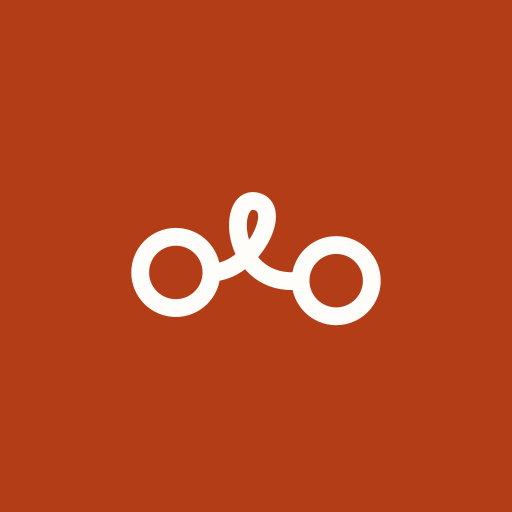
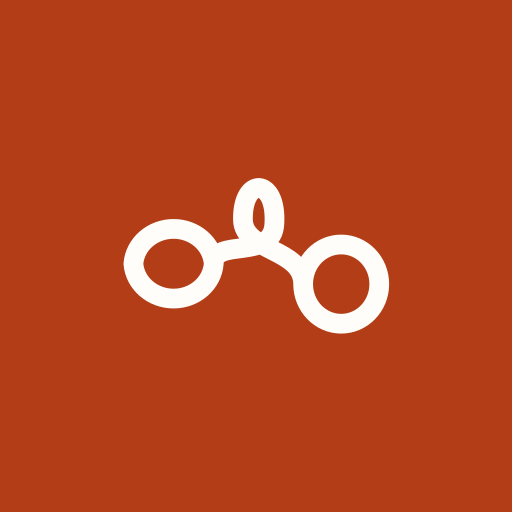
feat(brand): 첫 장면 로고를 고운바탕 글꼴로, 두 ㅇ과 리본 고리를 한 줄로 그리기
- 성효님이 글꼴 시안 중 고운바탕을 고름. 글꼴 윤곽(logo-data.ts)에서 우·연의 ㅇ만 지우고 리본 선 하나로 다시 그린다.
- 원과 리본 고리를 같은 방향(시계 반대)으로, ㅇ은 한 바퀴씩만 — 방향이 반대거나 같은 곳을 다시 지나면 선이 멈춘 듯 어색했음.
- 첫 ㅇ은 천천히, 고리에서 빠르게, 둘째 ㅇ에서 감속 후 한 번 튕김(약 2.6초, 누르면 닫힘). 아이콘도 같은 리본으로 다시 생성.

Claude-Session: https://claude.ai/code/session_0167Tg9DgNhsN7PbABVZ7vUc

Changed region(s): [[0.2188, 0.3438, 0.7812, 0.6562]]

diff --git a/src/components/logo-data.ts b/src/components/logo-data.ts
@@ -1,0 +1,8 @@
+// 폰트 윤곽에서 뽑은 로고 모양 (IBM Plex Sans KR 700, 고운바탕 700 — 둘 다 SIL OFL). 손으로 고치지 않는다.
+// 우·연의 ㅇ은 지우고 리본 선 하나(ribbon)로 다시 그린다. 원과 리본 고리는 모두 시계 반대 방향, 같은 곳을 두 번 지나지 않는다:
+// 왼쪽 ㅇ 오른쪽 끝에서 위로 한 바퀴 → 그대로 리본 고리 → 오른쪽 ㅇ 왼쪽 끝으로 들어가 한 바퀴.
+export const LOGOS = {
+  plex: {"label":"IBM Plex Sans KR","vb":"-4.7 -25.8 448 149.4","sw":14.5,"wy":"M85.9 72.8L85.9 84.1L51.3 84.1L51.3 114.2L37.9 114.2L37.9 84.1L3.3 84.1L3.3 72.8L85.9 72.8M118 74.3L118 74.3Q110.9 74.3 105.4 71.5Q99.9 68.6 96.9 63.2Q93.8 57.8 93.8 50.4L93.8 50.4Q93.8 43 96.9 37.7Q99.9 32.3 105.4 29.5Q110.9 26.6 118 26.6L118 26.6Q124.3 26.6 129.4 28.9Q134.4 31.2 137.6 35.5L137.6 35.5L156 35.5L156 22.1L169.4 22.1L169.4 88.5L156 88.5L156 65.8L137.3 65.8Q134.1 69.9 129.1 72.1Q124.1 74.3 118 74.3M118 63.5L118 63.5Q122.6 63.5 125.4 60.9Q128.1 58.2 128.1 53.3L128.1 53.3L128.1 47.6Q128.1 42.7 125.4 40.1Q122.6 37.4 118 37.4L118 37.4Q113.3 37.4 110.6 40.1Q107.8 42.7 107.8 47.6L107.8 47.6L107.8 53.3Q107.8 58.2 110.6 60.9Q113.3 63.5 118 63.5M156 46.3L141.8 46.3Q142.1 48.2 142.1 50.4L142.1 50.4Q142.1 52.7 141.8 55L141.8 55L156 55L156 46.3M124.5 101.7L171.1 101.7L171.1 112.7L119.5 112.7Q111 112.7 111 104.2L111 104.2L111 81.3L124.5 81.3L124.5 101.7","han":"M227 69.2L235.2 69.2L235.2 76.1L227 76.1L227 94.1L218.7 94.1L218.7 51.7L227 51.7L227 69.2M207.3 53.1L207.3 60L190.7 60L190.7 53.1L207.3 53.1M198.7 88.5Q194.5 88.5 191.5 87.1Q188.4 85.7 186.8 83.4Q185.2 81.2 185.2 78.5Q185.2 73.2 189.9 71L189.9 70.5L182.1 70.5L182.1 63.7L215.3 63.7L215.3 70.5L207.5 70.5L207.5 71Q212.2 73.2 212.2 78.5Q212.2 81.2 210.6 83.4Q209 85.7 205.9 87.1Q202.8 88.5 198.7 88.5M198.3 81.5L199.1 81.5Q201.5 81.5 203 80.1Q204.5 78.7 204.5 76.5Q204.5 74.3 203 72.9Q201.5 71.5 199.1 71.5L198.3 71.5Q195.9 71.5 194.4 72.8Q192.9 74.2 192.9 76.5Q192.9 78.8 194.4 80.2Q195.9 81.5 198.3 81.5M199.8 92.1L199.8 101.7L228.3 101.7L228.3 108.5L196.7 108.5Q191.4 108.5 191.4 103.2L191.4 92.1","sik":"M324.4 22.1L337.9 22.1L337.9 75.2L324.4 75.2L324.4 22.1M270.3 75.3L260.3 66.6Q271.4 57.6 276.3 49.8Q281.1 42.1 281.1 33L281.1 26.4L294.6 26.4L294.6 33.8Q294.6 43.8 290.6 51.9L291.1 52.2L294 49.8Q295.8 48.3 297.5 48.3Q299.2 48.3 300.7 49.8L316.1 64.3L306.4 73.7L290.1 57.1Q289.5 56.5 288.7 56.5Q288.1 56.5 287.5 57.1Q282.1 65.2 270.3 75.3M278.3 90.9L278.3 79.6L337.9 79.6L337.9 115.6L324.7 115.6L324.7 90.9M435.3 43.5L435.3 54.7L422.1 54.7L422.1 77.2L408.7 77.2L408.7 22.1L422.1 22.1L422.1 43.5L435.3 43.5M400.1 62L401.7 72.5Q393.3 74 384.3 74.8Q375.2 75.5 361.6 75.5L352.3 75.5L352.3 27.1L394.8 27.1L394.8 37.9L365.4 37.9L365.4 45.5L393.6 45.5L393.6 56.2L365.4 56.2L365.4 64.8Q376.2 64.7 384.2 64Q392.2 63.3 400.1 62M363.5 92.8L363.5 81.6L422.1 81.6L422.1 115.6L408.9 115.6L408.9 92.8","ribbon":"M67.6 44.7 A22.9 17.4 0 0 0 21.7 44.7 A22.9 17.4 0 0 0 67.6 44.7 C67.6 32.5 87.7 41.8 87.8 25.4 C88.1 5.2 73 5.3 74 24.3 C74.8 38.2 101.5 33.1 101.5 50.5 A16.4 19.3 0 0 0 134.4 50.5 A16.4 19.3 0 0 0 101.5 50.5"},
+  batang: {"label":"고운바탕","vb":"-5 -35.3 455.7 152.4","sw":10.5,"wy":"M47.7 104L47.7 104Q45.7 104 45.2 101.6L45.2 101.6Q44.7 99 44.6 96Q44.5 92.9 44.5 91.1L44.5 91.1L44.5 68.6Q40.2 68.7 36 69Q31.8 69.2 27.7 69.4L27.7 69.4Q23.4 69.6 19.8 70.1Q16.2 70.5 13.1 71.1L13.1 71.1Q10.9 71.6 10 71.4Q9 71.2 7.9 70.4L7.9 70.4Q7.3 69.9 6.2 68.9Q5.1 67.9 4.2 66.9Q3.2 65.8 3 65.3L3 65.3Q2.8 64.5 3.9 63Q5 61.5 6.2 61.6L6.2 61.6Q9.4 62.3 13.9 62.7Q18.3 63 23.3 63.1L23.3 63.1Q28.1 63.1 33.9 63.1Q39.7 63 45.7 62.8Q51.6 62.6 57 62.4Q62.3 62.2 66.1 62L66.1 62Q72.3 61.6 77.4 61Q82.4 60.4 85.5 59.6L85.5 59.6Q87.5 59.1 88.3 59.3Q89 59.4 89.7 60.5L89.7 60.5Q90.4 61.5 91.2 63.3Q92 65 92 65.7L92 65.7Q91.9 66.8 90.6 67.9Q89.2 68.9 88.6 68.9L88.6 68.9Q85.8 68.6 83.2 68.5Q80.5 68.3 77 68.2Q73.4 68.1 67.8 68.1L67.8 68.1Q64.5 68.1 61.1 68.2Q57.6 68.2 54 68.3L54 68.3L54 90.6Q54 93.1 53.5 96.3Q53 99.4 51.7 101.7Q50.3 104 47.7 104M165.9 82.5L165.9 82.5Q164.1 82.5 163.6 80.5L163.6 80.5Q163.1 78.2 163 75.2Q162.9 72.2 162.9 70.2L162.9 70.2Q162.9 69.7 162.9 69.5L162.9 69.5L162.9 57.4Q159.5 57.6 156.1 58.1Q152.6 58.6 150.6 59.1L150.6 59.1Q149.3 59.4 148.6 59.5Q147.8 59.5 146.9 59.2L146.9 59.2Q146.1 58.8 144.4 57.8Q142.7 56.7 141.9 55.9L141.9 55.9Q138.8 59.6 134.1 61.7Q129.4 63.7 124 63.9L124 63.9Q117.8 64.1 112.7 61.7Q107.6 59.3 104.6 54.9Q101.5 50.4 101.5 44.6L101.5 44.6Q101.5 38.8 104.5 34.3Q107.5 29.7 112.6 27Q117.7 24.2 123.9 24L123.9 24Q129.8 23.8 134.8 25.8Q139.8 27.9 142.9 32L142.9 32Q143.8 30.1 145.2 30.1L145.2 30.1Q149 30.8 154.2 30.6L154.2 30.6Q155.5 30.6 157.9 30.5Q160.3 30.3 162.9 30.2L162.9 30.2L162.9 27.5Q162.9 24.7 162.7 23.3Q162.4 21.9 161.5 20.9Q160.6 20 158.7 18.8L158.7 18.8Q157.7 18.2 157.3 17.3Q156.8 16.5 157.3 15.5L157.3 15.5Q158.1 13.8 159.4 13.3Q160.7 12.8 162.3 13.1L162.3 13.1Q164.6 13.5 167.1 14.6Q169.6 15.8 171.2 16.9L171.2 16.9Q173 18.2 173 19.4L173 19.4Q172.8 20.7 172.5 23Q172.2 25.3 172.2 27.6L172.2 27.6L172.2 69Q172.2 71.5 171.7 74.6Q171.1 77.7 169.7 80.1Q168.3 82.4 165.9 82.5M132.4 106L132.4 106Q130.9 105.9 129.1 105.1Q127.2 104.3 125.9 102.4Q124.6 100.4 124.6 97L124.6 97L124.6 89.7Q124.6 86.7 124.5 85.3Q124.3 83.8 123.6 82.9Q122.9 82 121.2 80.9L121.2 80.9Q120.3 80.3 120.1 79.6Q119.8 78.9 120.3 77.8L120.3 77.8Q121.1 76.1 122.5 75.7Q123.8 75.3 125.2 75.5L125.2 75.5Q126.9 75.8 129 76.6Q131 77.3 132.5 78.2L132.5 78.2Q133.6 78.9 134.4 79.6Q135.1 80.2 135.1 81L135.1 81Q134.7 82.7 134.5 85Q134.3 87.3 134.3 89.2L134.3 89.2L134.3 95.8Q134.3 98.3 135 98.9Q135.7 99.4 137.2 99.5L137.2 99.5Q141 99.6 145.3 99.6Q149.5 99.6 155.3 99.3L155.3 99.3Q161.8 99 166.5 98Q171.2 97 172.7 96.6L172.7 96.6Q173.8 96.2 174.5 96.5Q175.2 96.8 175.6 97.4L175.6 97.4Q176.4 98.4 177.2 100.1Q178 101.8 178 102.4L178 102.4Q178 103.2 176.9 104.4Q175.7 105.6 175 105.6L175 105.6Q173.7 105.5 170.9 105.5Q168.1 105.4 164.5 105.4Q160.9 105.4 157.1 105.5L157.1 105.5Q156.1 105.5 154.7 105.6Q153.2 105.6 151.4 105.7L151.4 105.7Q148.3 105.8 144.7 105.9Q141 106 137.7 106.1Q134.4 106.1 132.4 106M123.9 57.4L123.9 57.4Q129.5 57.2 133.2 53.5Q136.9 49.8 136.9 43.5L136.9 43.5Q136.9 36.7 133.2 33.5Q129.5 30.2 124 30.5L124 30.5Q118.3 30.8 114.6 34.5Q110.9 38.2 110.9 44.2L110.9 44.2Q110.9 50.7 114.7 54.1Q118.4 57.5 123.9 57.4M153.2 52.4L153.2 52.4Q154.6 52.4 157.4 52.3Q160.1 52.1 162.9 51.9L162.9 51.9L162.9 35.7Q159.2 35.9 156.5 36.3Q153.7 36.8 151.7 37.3L151.7 37.3Q150.4 37.7 149.7 37.7Q148.9 37.7 148 37.4L148 37.4Q147.6 37.2 146.8 36.8Q145.9 36.3 145.1 35.8L145.1 35.8Q146.5 39.2 146.5 43.2L146.5 43.2Q146.5 48 144.5 52L144.5 52Q146.2 52.2 148.5 52.4Q150.8 52.5 153.2 52.4","han":"M205.1 84.1Q201.1 84.2 198.3 82.8Q195.6 81.3 194.2 79.1Q192.8 76.8 192.8 74.6Q192.8 72.2 194 70Q195.2 67.7 197.8 66.1Q200.5 64.6 204.9 64.5Q207.8 64.5 210.6 65.4Q213.5 66.3 215.3 68.3Q217.2 70.4 217.2 74Q217.2 76.4 215.9 78.7Q214.6 81 211.9 82.5Q209.2 84 205.1 84.1M227.7 91Q226.6 91 226.3 89.8Q226 88.3 225.9 86.5Q225.9 84.6 225.9 83.4Q225.9 83.1 225.9 83L225.9 55Q225.9 53.3 225.7 52.4Q225.6 51.6 225.1 51Q224.6 50.4 223.4 49.7Q222.8 49.3 222.5 48.8Q222.2 48.2 222.5 47.6Q223 46.6 223.8 46.2Q224.6 45.9 225.6 46.1Q227 46.4 228.5 47.1Q230 47.8 231 48.5Q232.1 49.3 232.1 50Q232 50.8 231.8 52.3Q231.6 53.7 231.6 55.1L231.6 68.2Q234 67.9 236 67.4Q237.9 66.9 238.8 66.6Q239.4 66.4 239.9 66.6Q240.3 66.7 240.6 67.1Q241 67.7 241.5 68.8Q242 69.9 242 70.4Q242 71 241.3 71.6Q240.5 72.2 240.1 72.2Q238.1 71.9 235.9 71.8Q233.7 71.7 231.6 71.7L231.6 82.6Q231.6 84.2 231.3 86.1Q230.9 88 230.1 89.5Q229.2 90.9 227.7 91M206.9 103.7Q206 103.7 204.9 103.3Q203.7 103 202.9 101.9Q202.1 100.9 202.1 98.8L202.1 95.6Q202.1 93.9 202 93.1Q201.9 92.3 201.5 91.8Q201.1 91.3 200.1 90.8Q198.9 90.1 199.4 88.8Q199.9 87.8 200.7 87.5Q201.6 87.2 202.4 87.3Q203.5 87.5 204.8 87.9Q206.1 88.3 206.9 88.8Q207.6 89.3 208.1 89.6Q208.6 90 208.6 90.5Q208.4 91.6 208.3 93Q208.1 94.4 208.1 95.3L208.1 98Q208.1 99 208.4 99.3Q208.6 99.6 209.2 99.7Q211.6 99.8 214.6 99.8Q217.6 99.8 221.1 99.6Q225.2 99.3 228.1 98.7Q231 98.1 231.9 97.9Q232.6 97.6 233.1 97.8Q233.5 98 233.7 98.4Q234.2 99 234.7 100.1Q235.2 101.1 235.2 101.5Q235.2 102 234.5 102.7Q233.8 103.5 233.4 103.5Q232.6 103.4 230.8 103.4Q229.1 103.3 226.8 103.3Q224.6 103.3 222.3 103.4Q221.6 103.4 220.7 103.4Q219.8 103.5 218.7 103.5Q216.8 103.6 214.5 103.7Q212.3 103.7 210.2 103.8Q208.2 103.8 206.9 103.7M192.3 63Q191.1 63.3 190.6 63.2Q190.1 63.2 189.4 62.6Q189 62.2 188.2 61.4Q187.5 60.6 187.2 60.1Q187 59.5 187.7 58.8Q188.3 58 188.8 58Q189.8 58.2 191.5 58.3Q193.2 58.5 195.4 58.5Q197.5 58.5 199.5 58.5Q201.6 58.5 203.3 58.5Q209.7 58.3 213.7 57.7Q217.6 57.2 219.2 56.8Q220.3 56.5 220.8 57.2Q221.3 58 221.6 59Q221.9 59.9 221.9 60.2Q221.9 60.7 221.2 61.3Q220.5 62 220 61.9Q218.4 61.8 215.7 61.8Q213 61.7 210 61.8Q206.9 61.8 204.2 62Q202.5 62.1 200.4 62.2Q198.2 62.4 196.1 62.6Q193.9 62.7 192.3 63M205 80Q208 79.9 209.7 78.1Q211.4 76.3 211.4 73.7Q211.4 72.5 210.8 71.2Q210.2 69.9 208.8 68.9Q207.5 67.9 205.3 67.9Q201.7 67.9 200.1 69.9Q198.5 71.8 198.5 74.3Q198.5 76.6 200.2 78.4Q202 80.1 205 80M202.4 54.5Q201.2 54.3 199.7 53.9Q198.1 53.4 196.7 52.8Q195.3 52.1 194.5 51.5Q194.2 50.9 194.6 49.9Q195 48.9 195.9 48.9Q198.3 49.3 200.8 49.5Q203.3 49.8 205.6 49.8Q207.6 49.8 209.4 49.7Q211.3 49.5 212.5 49.4Q213.5 49.5 214.1 50Q214.8 50.6 214.8 51.1Q214.7 51.6 214.2 52.5Q213.7 53.4 213 53.8Q211.9 54.2 210 54.4Q208.1 54.6 206 54.6Q204 54.7 202.4 54.5","sik":"M272.2 66.8Q270.6 67.7 268.6 67.3Q266.6 67 266.3 65.7Q266.2 65 266.4 64.3Q266.6 63.7 267.6 63Q270.9 60.6 274.5 56.9Q278.2 53.3 281.7 48.8Q285.3 44.4 288.2 39.6Q291.1 34.9 292.7 30.3Q292.7 30.2 292.8 29.9Q293.5 28.1 293.6 26.5Q293.8 25 292.1 23.5Q291.4 22.9 291 22.3Q290.7 21.6 291.2 20.6Q292.4 18.1 294.1 18Q295.9 17.9 297.4 18.7Q299.3 19.5 301.5 20.9Q303.8 22.4 305 23.7Q306.3 24.9 306.1 26Q305.1 27.6 304.1 29.3Q303.2 31.1 302.1 33.1Q301.3 34.6 300.3 36.1Q299.4 37.7 298.5 39.2Q304.3 43.6 309 46.2Q313.7 48.8 316.7 49.7Q317.6 50.1 318.6 51.8Q319.6 53.6 320.4 55.8Q321.2 57.9 321.2 59.6Q320.8 61.4 318.8 62.4Q316.9 63.3 315.6 63Q313.9 60.9 311.3 58.3Q308.8 55.7 305.9 52.9Q303 50.2 300.3 47.8Q297.6 45.4 295.6 43.7Q290.7 50.6 284.7 56.9Q278.7 63.3 272.2 66.8M333.7 109Q332.3 109.1 331.7 108.4Q331.1 107.7 330.9 106.9Q330.5 105.2 330.4 102.9Q330.3 100.6 330.3 98.6L330.1 81.8Q330.1 80.9 329.7 80.7Q329.3 80.4 328.7 80.4Q326 80.5 320.2 80.8Q314.5 81.2 307.4 81.7Q304.8 81.9 301.2 82.4Q297.6 82.9 295 83.5Q293.1 84 292.3 83.8Q291.6 83.7 290.7 83.1Q289.4 82.2 287.8 80.6Q286.2 79 285.7 78Q285.6 77 286.6 75.7Q287.6 74.4 289 74.3Q290.4 74.6 292.7 74.8Q295 75.1 297.6 75.2Q300.3 75.3 302.5 75.3Q307.1 75.2 311.5 75Q315.9 74.9 320.5 74.5Q323.4 74.3 325.8 73.9Q328.3 73.5 330.2 72.8Q331 72.5 331.4 72.5Q331.8 72.4 332.7 72.6L339.3 73.8Q340.9 74.1 340.6 75.8Q340.5 76.7 340.3 78.3Q340.1 80 339.9 81.8Q339.8 83.6 339.8 84.8L339.7 97.1Q339.7 99.7 339 102.5Q338.4 105.2 337 107Q335.7 108.9 333.7 109M334.6 68.5Q332.9 68.5 332.3 66.4Q331.8 64.1 331.7 61.3Q331.6 58.6 331.6 56.8Q331.6 56.4 331.6 56.2L331.6 27.5Q331.6 24.7 331.4 23.3Q331.2 21.8 330.3 20.9Q329.5 20 327.6 18.7Q326.6 18.1 326.1 17.3Q325.7 16.5 326.2 15.5Q327 13.8 328.3 13.3Q329.6 12.8 331.2 13.1Q333.5 13.5 335.9 14.6Q338.3 15.8 339.9 16.9Q341.7 18.1 341.7 19.4Q341.5 20.7 341.2 23Q340.9 25.3 340.9 27.6L340.9 55.7Q340.9 58.2 340.3 61.1Q339.8 64.1 338.4 66.3Q337 68.4 334.6 68.5M368 67Q365.2 66.5 363.8 64.2Q362.4 61.9 362.4 58.6L362.4 34.9Q362.4 31.7 361.7 30.3Q361.1 29 358.8 27.7Q356.7 26.5 357.4 24.8Q358.2 22.8 359.5 22.3Q360.8 21.9 362.3 22.1Q363.8 22.3 365.8 22.8Q367.8 23.3 369.4 23.8Q375 23.9 380.5 23.5Q386 23.2 390.4 22.6Q394.8 22 397 21.2Q398.1 20.7 398.8 21Q399.5 21.4 399.9 22Q400.7 23 401.4 24.5Q402.2 25.9 402.2 26.4Q402.2 27.2 401 28.4Q399.9 29.6 399.2 29.6Q397.2 29.4 393.8 29.3Q390.4 29.3 386.4 29.4Q382.5 29.5 378.6 29.6Q374.8 29.7 371.9 29.9L371.9 40.3Q376.9 40.2 381.7 39.9Q386.5 39.7 390.3 39.3Q394.1 38.8 396 38.2Q397.1 37.8 397.7 38Q398.3 38.3 398.9 39Q399.7 40 400.3 41.1Q401 42.3 401 42.8Q400.9 43.6 399.9 44.7Q399 45.8 398.3 45.9Q396.4 45.7 393.1 45.6Q389.9 45.6 386.1 45.7Q382.4 45.8 378.6 45.9Q374.9 46 371.9 46.2L371.9 55.4Q371.9 57.5 372.3 58Q372.7 58.5 374.7 58.5Q379.6 58.4 384.9 57.8Q390.2 57.2 395 56.3Q399.9 55.4 403.7 54.4Q407.6 53.5 409.7 52.7Q411.3 51.9 412.2 52.4Q413.1 53 413.2 53.9Q413.2 55.5 411.7 56.8Q410.3 58 407.4 59.3Q404.6 60.5 399.8 61.8Q395 63.1 389.3 64.3Q383.6 65.4 378 66.2Q372.4 66.9 368 67M419.6 69.9Q417.9 69.9 417.3 67.8Q416.8 65.5 416.7 62.8Q416.6 60 416.6 58.2Q416.6 57.8 416.6 57.6L416.6 27.5Q416.6 24.7 416.4 23.3Q416.2 21.8 415.3 20.9Q414.5 20 412.6 18.7Q411.6 18.1 411.1 17.3Q410.7 16.5 411.2 15.5Q412 13.8 413.3 13.3Q414.6 12.8 416.2 13.1Q418.5 13.5 420.9 14.6Q423.3 15.8 424.9 16.9Q426.7 18.1 426.7 19.4Q426.5 20.7 426.2 23Q425.9 25.3 425.9 27.6L425.9 42.7Q429.8 42.3 432.9 41.4Q436.1 40.6 437.4 40.2Q438.5 39.8 439.2 40Q439.9 40.3 440.3 40.9Q441.1 41.9 441.9 43.7Q442.7 45.5 442.7 46.2Q442.7 47.2 441.4 48.2Q440.2 49.2 439.5 49.2Q436.4 48.7 432.8 48.5Q429.3 48.4 425.9 48.4L425.9 57.1Q425.9 59.6 425.3 62.5Q424.8 65.5 423.4 67.7Q422 69.8 419.6 69.9M418.6 108.8Q417.2 108.9 416.6 108.2Q416 107.5 415.8 106.7Q415.4 105.2 415.3 103.3Q415.3 101.3 415.3 99.4Q415.3 98.7 415.3 98.4L415.1 82.3Q415.1 81.4 414.7 81.2Q414.3 80.9 413.7 80.9Q411 81 405.2 81.3Q399.5 81.7 392.4 82.2Q389.8 82.4 386.2 82.9Q382.6 83.4 380 84Q378.1 84.5 377.3 84.3Q376.6 84.2 375.7 83.6Q374.4 82.7 372.8 81.1Q371.2 79.5 370.7 78.5Q370.6 77.5 371.6 76.2Q372.6 74.9 374 74.8Q375.4 75.1 377.7 75.3Q380 75.6 382.6 75.7Q385.3 75.8 387.5 75.8Q392.1 75.7 396.5 75.5Q400.9 75.4 405.5 75Q408.4 74.8 410.8 74.4Q413.3 74 415.2 73.3Q416 73 416.4 73Q416.8 72.9 417.7 73.1L424.3 74.3Q425.9 74.6 425.6 76.3Q425.5 77.2 425.3 78.8Q425.1 80.5 424.9 82.3Q424.8 84.1 424.8 85.3L424.7 96.9Q424.7 99.5 424 102.3Q423.3 105 421.9 106.8Q420.6 108.7 418.6 108.8","ribbon":"M66.3 34.7 A18.2 17 0 0 0 30 34.7 A18.2 17 0 0 0 66.3 34.7 C66.3 22.8 93 33.5 93.7 16.6 C94.9 -4.3 79.2 -4.9 79.5 14.8 C79.7 29.3 106.7 27.8 106.7 43.9 A17.2 17.9 0 0 0 141.1 43.9 A17.2 17.9 0 0 0 106.7 43.9"},
+} as const;
+export type LogoFont = keyof typeof LOGOS;

diff --git a/src/components/logo.tsx b/src/components/logo.tsx
@@ -1,60 +1,24 @@
-// 우연한 식탁 글자 로고. 폰트 없이 선으로 직접 그린 글자라 스플래시·아이콘·헤더에서 모양이 같다.
-// '우연'의 두 ㅇ은 끊기지 않는 리본 한 줄로 이어진다: 모르는 두 사람이 한 줄로 묶인다는 뜻.
-// 글자 칸은 120×120, 선 굵기 13. '한'은 작게(0.68배) 아래에 붙인다.
+import { LOGOS, type LogoFont } from "./logo-data";
 
-/** 두 ㅇ을 잇는 리본: 우의 ㅇ을 한 바퀴 돌고, 작은 고리를 한 번 감은 뒤 연의 ㅇ을 한 바퀴 돈다 */
-export const RIBBON =
-  "M86 38 A26 26 0 1 1 34 38 A26 26 0 1 1 86 38 C116 38 140 -10 118 -14 C96 -18 100 50 151 44 A26 26 0 1 1 203 44 A26 26 0 1 1 151 44";
+// 우연한 식탁 글자 로고. '우연'의 두 ㅇ은 끊기지 않는 리본 한 줄로 이어진다: 모르는 두 사람이 한 줄로 묶인다는 뜻.
+// '한'은 작게. 글자는 글꼴 윤곽(logo-data.ts, 기본 고운바탕). 아이콘은 scripts/make-icons.mjs가 같은 리본으로 만든다.
 
-/** 리본을 뺀 나머지 획. [그리는 순서대로] */
-export const STROKES_WOOYEON = [
-  "M12 84 H108", "M60 84 V118", // 우의 ㅜ
-  "M232 8 V86", "M206 32 H232", "M206 58 H232", // 연의 ㅕ
-  "M165 94 V118 H250", // 연의 ㄴ
-];
-/** '한' (작게, 원점 기준. 0.68배로 줄여 쓴다) */
-export const STROKES_HAN = ["M32 8 H52", "M14 26 H70", "M92 4 V82", "M92 43 H114", "M24 90 V116 H108"];
-export const HAN_CIRCLE = { cx: 42, cy: 54, r: 16 };
-/** '식' '탁' (글자 칸 원점 기준) */
-export const STROKES_SIK = ["M44 8 L12 74", "M38 32 L76 74", "M98 4 V86", "M18 98 H98 V122"];
-export const STROKES_TAK = ["M72 10 H18 V72 H74", "M18 41 H66", "M98 4 V86", "M98 45 H116", "M18 98 H100 V122"];
-
-const W = 13;
-
-/** 글자 로고 전체(우연한 식탁). animate면 스플래시처럼 리본부터 그려진다 */
-export function Wordmark({ animate = false, className, title = "우연한 식탁" }: { animate?: boolean; className?: string; title?: string }) {
+/**
+ * 글자 로고 전체(우연한 식탁). 글꼴 윤곽을 쓰고, 우·연의 ㅇ만 리본 선 하나로 다시 그린다(logo-data.ts).
+ * animate면 왼쪽 ㅇ에서 시작한 선이 리본 고리를 지나 오른쪽 ㅇ까지 한 번에 그려진 뒤 나머지 글자가 붙는다.
+ */
+export function Wordmark({ animate = false, font = "batang", className, title = "우연한 식탁" }: { animate?: boolean; font?: LogoFont; className?: string; title?: string }) {
+  const L = LOGOS[font];
   const d = (s: number) => (animate ? { style: { animationDelay: `${s}s` } } : {});
-  const line = (path: string, i: number, base: number, step = 0.06) => (
-    <path key={path} d={path} pathLength={1} className={animate ? "wm-draw" : undefined} {...d(base + i * step)} />
-  );
   return (
-    <svg viewBox="-8 -24 638 156" className={className} role="img" aria-label={title} fill="none" strokeLinecap="round" strokeLinejoin="round" strokeWidth={W}>
-      <path d={RIBBON} pathLength={1} stroke="var(--accent)" className={animate ? "wm-ribbon" : undefined} />
-      <g stroke="currentColor">
-        {STROKES_WOOYEON.map((p, i) => line(p, i, 0.6, 0.05))}
-        {/* 위치(transform 속성)와 움직임(CSS)을 다른 g에 둔다: 한 g에 같이 두면 CSS 기준점이 위치까지 옮긴다 */}
-        <g transform="translate(262 40) scale(.68)" strokeWidth={(W - 2) / 0.68}>
-          <g className={animate ? "wm-pop" : undefined} {...d(0.88)}>
-            {STROKES_HAN.map((p) => <path key={p} d={p} />)}
-            <circle {...HAN_CIRCLE} />
-          </g>
-        </g>
-        <g transform="translate(374 0)">
-          <g className={animate ? "wm-rise" : undefined} {...d(0.95)}>{STROKES_SIK.map((p) => <path key={p} d={p} />)}</g>
-        </g>
-        <g transform="translate(502 0)">
-          <g className={animate ? "wm-rise" : undefined} {...d(1.01)}>{STROKES_TAK.map((p) => <path key={p} d={p} />)}</g>
-        </g>
+    <svg viewBox={L.vb} className={className} role="img" aria-label={title}>
+      <g fill="currentColor">
+        <path d={L.wy} className={animate ? "wm-rise" : undefined} {...d(1.3)} />
+        <path d={L.han} className={animate ? "wm-pop" : undefined} {...d(1.4)} />
+        <path d={L.sik} className={animate ? "wm-rise" : undefined} {...d(1.5)} />
       </g>
-    </svg>
-  );
-}
-
-/** 아이콘용 마크: 리본으로 이어진 ㅇㅇ만 */
-export function RibbonMark({ className, color = "currentColor" }: { className?: string; color?: string }) {
-  return (
-    <svg viewBox="2 -30 234 108" className={className} aria-hidden="true" fill="none" stroke={color} strokeWidth={W} strokeLinecap="round" strokeLinejoin="round">
-      <path d={RIBBON} />
+      {/* 리본은 글자 위에: '연'처럼 ㅇ이 다른 획과 붙은 글꼴은 리본이 그 ㅇ을 덮는다 */}
+      <path d={L.ribbon} pathLength={1} fill="none" stroke="var(--accent)" strokeWidth={L.sw} strokeLinecap="round" strokeLinejoin="round" className={animate ? "wm-ribbon" : undefined} />
     </svg>
   );
 }

diff --git a/src/app/globals.css b/src/app/globals.css
@@ -109,17 +109,23 @@ html { -webkit-tap-highlight-color: transparent; }
 
 /* 첫 장면: 리본으로 이어지는 ㅇㅇ → 나머지 획 → 한(작게) 식탁 */
 html[data-splash="off"] #splash { display: none; }
-.splash { animation: splash-out .3s ease-in 1.6s forwards; }
-.wm-ribbon { stroke-dasharray: 1; stroke-dashoffset: 1; animation: wm-draw .7s cubic-bezier(.55,.1,.3,1) .05s forwards; }
-.wm-draw { stroke-dasharray: 1; stroke-dashoffset: 1; animation: wm-draw .22s ease-out forwards; }
+.splash { animation: splash-out .3s ease-in 2.35s forwards; }
+.wm-ribbon { stroke-dasharray: 1; stroke-dashoffset: 1; transform-box: fill-box; transform-origin: 50% 60%; animation: wm-ribbon 1.25s linear .1s forwards, wm-boing .6s 1.35s both; } /* 왼쪽 ㅇ 한 바퀴 → 리본 고리 → 오른쪽 ㅇ 한 바퀴, 같은 방향 선 하나로 */
+/* 텐션: 첫 ㅇ은 천천히 감다가, 리본 고리에서 확 당겨지고, 둘째 ㅇ에서 감속. 다 그리면 한 번 튕긴다 */
+@keyframes wm-ribbon {
+  0% { stroke-dashoffset: 1; animation-timing-function: cubic-bezier(.5,0,.9,.5); }
+  38% { stroke-dashoffset: .62; animation-timing-function: cubic-bezier(.2,.7,.4,1); }
+  62% { stroke-dashoffset: .3; animation-timing-function: cubic-bezier(.25,.6,.3,1); }
+  100% { stroke-dashoffset: 0; }
+}
+@keyframes wm-boing { 0% { scale: 1; } 30% { scale: 1.07 .94; } 55% { scale: .97 1.03; } 78% { scale: 1.01 .99; } 100% { scale: 1; } }
 .wm-pop { opacity: 0; transform-box: fill-box; transform-origin: 50% 100%; animation: wm-pop .3s cubic-bezier(.3,1.5,.5,1) forwards; }
 .wm-rise { opacity: 0; animation: wm-rise .32s ease-out forwards; }
-.splash-tag { opacity: 0; animation: wm-rise .3s ease-out 1.05s forwards; }
-@keyframes wm-draw { to { stroke-dashoffset: 0; } }
+.splash-tag { opacity: 0; animation: wm-rise .3s ease-out 1.75s forwards; }
 @keyframes wm-pop { from { opacity: 0; scale: .4; } to { opacity: 1; scale: 1; } }
 @keyframes wm-rise { from { opacity: 0; translate: 0 10px; } to { opacity: 1; translate: 0 0; } }
 @keyframes splash-out { to { opacity: 0; visibility: hidden; pointer-events: none; } }
 @media (prefers-reduced-motion: reduce) {
   .splash { animation: splash-out .2s ease-in .6s forwards; }
-  .wm-ribbon, .wm-draw, .wm-pop, .wm-rise, .splash-tag { animation: none; opacity: 1; stroke-dashoffset: 0; }
+  .wm-ribbon, .wm-pop, .wm-rise, .splash-tag { animation: none; opacity: 1; stroke-dashoffset: 0; }
 }

diff --git a/src/components/splash.tsx b/src/components/splash.tsx
@@ -1,4 +1,4 @@
-// 앱을 켰을 때 한 번 나오는 첫 장면 (약 1.9초, 누르면 바로 닫힘).
+// 앱을 켰을 때 한 번 나오는 첫 장면 (약 2.6초, 누르면 바로 닫힘).
 // '우연'의 두 ㅇ이 리본 한 줄로 이어 그려지고, 나머지 획과 '한(작게) 식탁'이 차례로 붙은 뒤 사라진다.
 // 같은 창에서는 한 번만 나온다. 어드민·심사 안내·알림으로 연 화면에서는 나오지 않는다.
 
